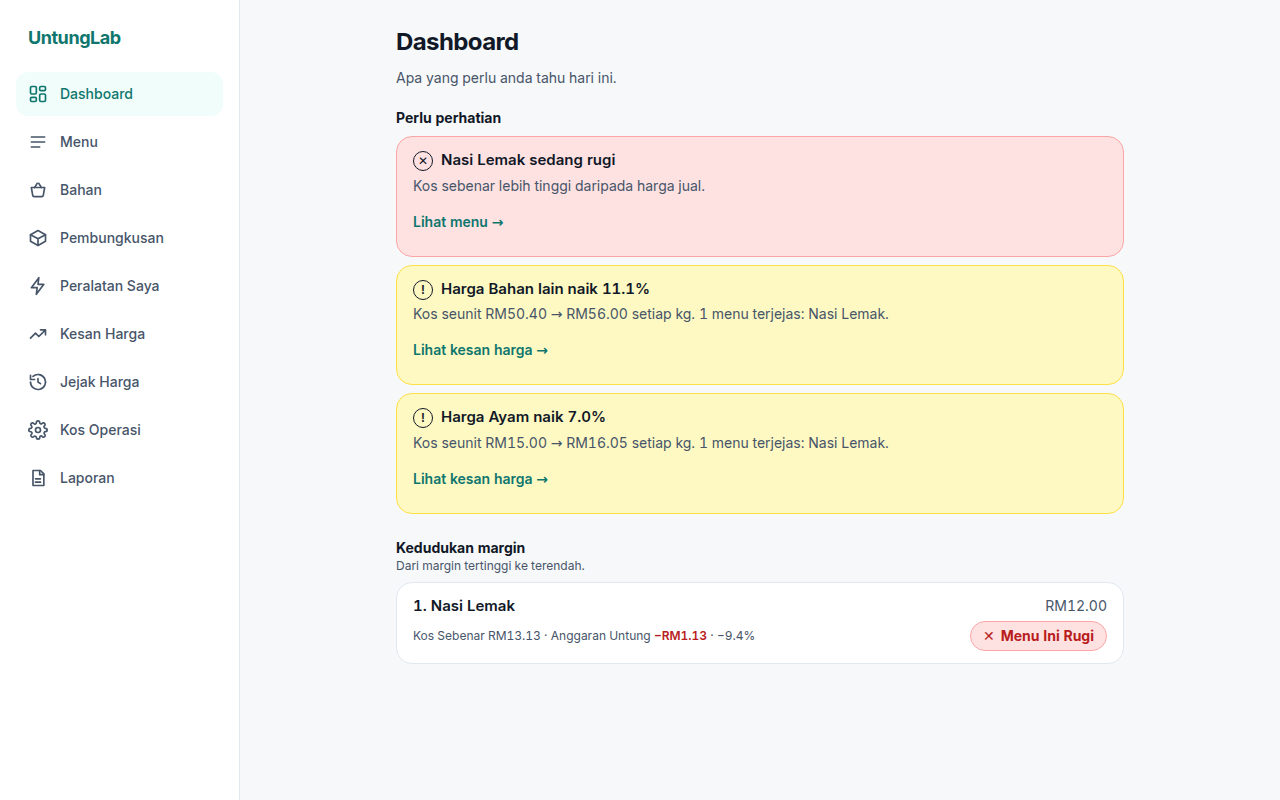
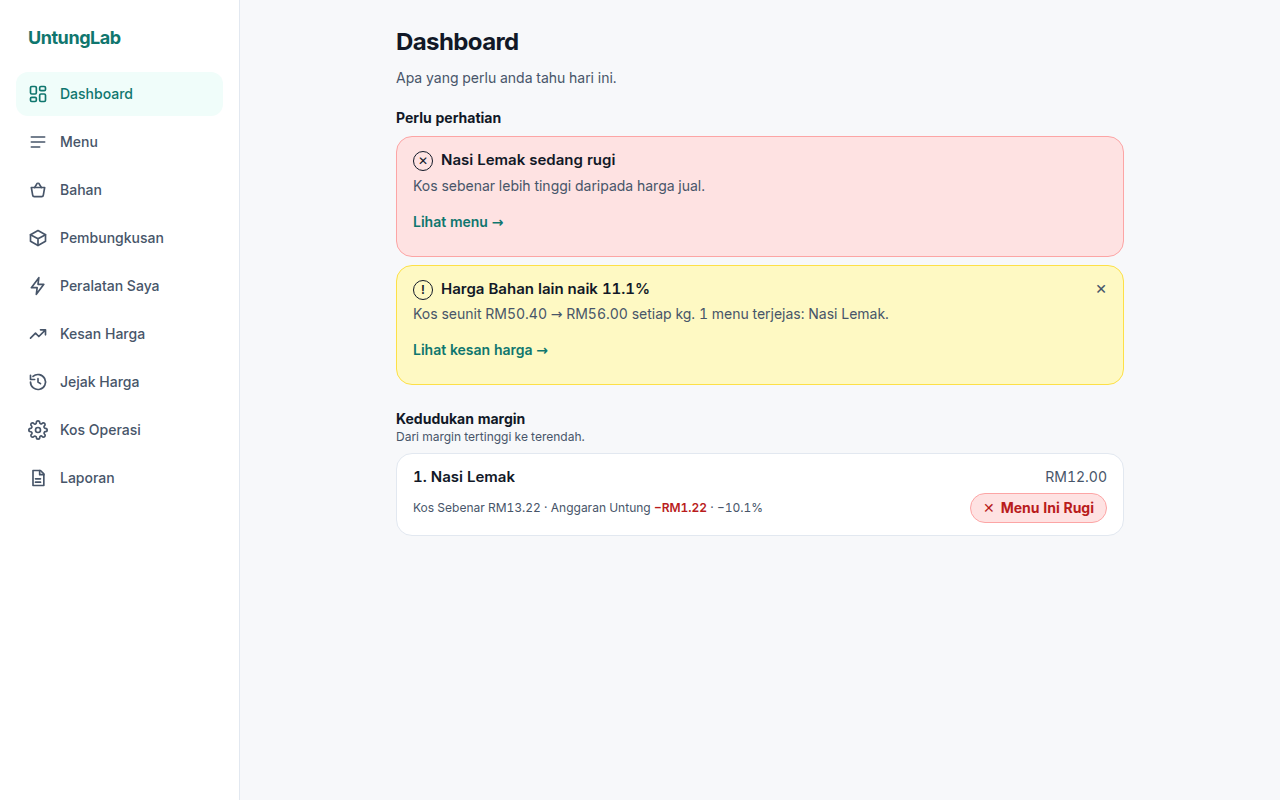
Phase 7 follow-up: 10% alert threshold, closable price alerts, Jejak Harga trend graph
Claude-Session: https://claude.ai/code/session_016wGGxrcJFzmJurSCXDfQKT

Changed region(s): [[0.3125, 0.4688, 0.875, 0.7188], [0.3125, 0.75, 0.5938, 0.8125], [0.75, 0.75, 0.875, 0.8125]]

diff --git a/src/app/components/PriceTrend.tsx b/src/app/components/PriceTrend.tsx
@@ -1,0 +1,91 @@
+import { useState } from 'react';
+import { t } from '../../i18n/ms';
+import { signedPct, signedRM, unitRM } from '../signed';
+import { trendPoints, type TrendInput } from '../trend';
+
+const BOX = { width: 320, height: 170, padX: 22, padY: 36 };
+
+/**
+ * Normalised unit cost over time for one ingredient. One series, so no legend; the title names it.
+ * The history list under it is the table view. Selecting a point (tap, hover or keyboard) shows its exact values.
+ */
+export function PriceTrend({ name, points, unit }: { name: string; points: TrendInput[]; unit: string }) {
+  const [picked, setPicked] = useState<number | null>(null);
+  if (points.length < 2) return null;
+  const pts = trendPoints(points, BOX);
+  const i = picked ?? pts.length - 1;
+  const cur = pts[i]!;
+  const prev = i > 0 ? pts[i - 1]! : null;
+  const lo = Math.min(...points.map((p) => p.amount));
+  const hi = Math.max(...points.map((p) => p.amount));
+  const line = pts.map((p) => `${p.x.toFixed(1)},${p.y.toFixed(1)}`).join(' ');
+  const first = points[0]!.date;
+  const last = points[points.length - 1]!.date;
+
+  const nearest = (clientX: number, el: SVGSVGElement) => {
+    const r = el.getBoundingClientRect();
+    const x = ((clientX - r.left) / r.width) * BOX.width;
+    let best = 0;
+    pts.forEach((p, n) => {
+      if (Math.abs(p.x - x) < Math.abs(pts[best]!.x - x)) best = n;
+    });
+    setPicked(best);
+  };
+
+  return (
+    <div className="mt-2">
+      <p className="text-xs font-semibold">{t('jejak.trendTajuk')}</p>
+      <p className="mt-0.5 min-h-8 text-xs text-muted" aria-live="polite">
+        <span className="font-semibold text-ink">
+          {cur.date} · {unitRM(cur.amount)}/{unit}
+        </span>
+        {prev && (
+          <>
+            {' '}
+            · {signedRM(cur.amount - prev.amount, 3)} ({prev.amount > 0 ? signedPct(((cur.amount - prev.amount) / prev.amount) * 100) : '—'}) {t('jejak.dariSebelum')}
+          </>
+        )}
+      </p>
+      <svg
+        viewBox={`0 0 ${BOX.width} ${BOX.height}`}
+        className="w-full touch-pan-y select-none text-primary"
+        role="img"
+        aria-label={t('jejak.trendLabel').replace('{nama}', name).replace('{a}', first).replace('{b}', last).replace('{n}', String(points.length))}
+        data-testid="trend"
+        onPointerMove={(e) => nearest(e.clientX, e.currentTarget)}
+        onPointerDown={(e) => nearest(e.clientX, e.currentTarget)}
+      >
+        <line x1={BOX.padX} x2={BOX.width - BOX.padX} y1={BOX.padY} y2={BOX.padY} stroke="currentColor" strokeOpacity="0.12" />
+        <line x1={BOX.padX} x2={BOX.width - BOX.padX} y1={BOX.height - BOX.padY} y2={BOX.height - BOX.padY} stroke="currentColor" strokeOpacity="0.12" />
+        <text x={BOX.padX} y={BOX.padY - 8} fontSize="10" className="fill-muted">
+          {unitRM(hi)}
+        </text>
+        <text x={BOX.padX} y={BOX.height - BOX.padY + 16} fontSize="10" className="fill-muted">
+          {unitRM(lo)}
+        </text>
+        <text x={BOX.width - BOX.padX} y={BOX.height - 2} fontSize="10" textAnchor="end" className="fill-muted">
+          {last}
+        </text>
+        <text x={BOX.padX} y={BOX.height - 2} fontSize="10" className="fill-muted">
+          {first}
+        </text>
+        <polyline points={line} fill="none" stroke="currentColor" strokeWidth="2" strokeLinejoin="round" strokeLinecap="round" />
+        {pts.map((p, n) => (
+          <circle
+            key={n}
+            cx={p.x}
+            cy={p.y}
+            r={n === i ? 6 : 4}
+            strokeWidth="2"
+            className={n === i ? 'fill-primary stroke-surface' : 'fill-surface stroke-primary'}
+            tabIndex={0}
+            role="button"
+            aria-label={`${p.date} ${unitRM(p.amount)}/${unit}`}
+            onFocus={() => setPicked(n)}
+          />
+        ))}
+      </svg>
+      <p className="text-xs text-muted">{t('jejak.trendNota')}</p>
+    </div>
+  );
+}

diff --git a/src/app/pages/Dashboard.tsx b/src/app/pages/Dashboard.tsx
@@ -1,10 +1,10 @@
 import { Link } from 'react-router-dom';
 import { formatPct, formatRM } from '../../domain';
-import { listAllHistory, loadCostingData } from '../../db';
+import { dismissInsight, listAllHistory, listDismissedInsightKeys, loadCostingData } from '../../db';
 import { t } from '../../i18n/ms';
 import { StatusBadge, issueText } from '../components/MenuResultView';
 import { EmptyState, Loading, PageHeader, btnPrimary } from '../components/ui';
-import { useLive } from '../data';
+import { useData, useLive } from '../data';
 import { buildDashboard, type InsightItem } from '../insights';
 import { signedPct, unitRM } from '../signed';
 import { SetupChecklist } from './Mula';
@@ -43,9 +43,10 @@ function insightCopy(i: InsightItem): { title: string; detail: string; cta: stri
 
 /** Leads with what needs action, then the margin ranking. Every number comes from the shared costing engine (M04). */
 export function DashboardPage() {
-  const data = useLive(async (c) => ({ costing: await loadCostingData(c), history: await listAllHistory(c) }));
+  const ctx = useData();
+  const data = useLive(async (c) => ({ costing: await loadCostingData(c), history: await listAllHistory(c), dismissed: await listDismissedInsightKeys(c) }));
   if (!data) return <Loading />;
-  const d = buildDashboard(data.costing, data.history);
+  const d = buildDashboard(data.costing, data.history, data.dismissed);
   const nameOf = (ref: string | undefined) => data.costing.ingredients.find((i) => i.id === ref)?.name ?? data.costing.packaging.find((p) => p.id === ref)?.name ?? data.costing.equipment.find((e) => e.id === ref)?.name ?? t('menu.hilang');
 
   if (d.menuCount === 0) {
@@ -83,8 +84,19 @@ export function DashboardPage() {
           {d.insights.map((i, n) => {
             const c = insightCopy(i);
             return (
-              <li key={`${i.type}-${n}`} className={`rounded-2xl border px-4 py-3 ${SEVERITY_STYLE[i.severity]}`}>
-                <p className="flex items-start gap-2 text-[15px] font-semibold">
+              <li key={`${i.type}-${n}`} className={`relative rounded-2xl border px-4 py-3 ${SEVERITY_STYLE[i.severity]}`}>
+                {i.type === 'price_move' && (
+                  <button
+                    type="button"
+                    aria-label={t('dash.tutupAmaran')}
+                    title={t('dash.tutupAmaran')}
+                    onClick={() => void dismissInsight(ctx, i.key)}
+                    className="absolute right-0 top-0 inline-flex size-11 items-center justify-center rounded-full text-lg text-muted hover:text-ink"
+                  >
+                    <span aria-hidden="true">×</span>
+                  </button>
+                )}
+                <p className={`flex items-start gap-2 text-[15px] font-semibold ${i.type === 'price_move' ? 'pr-8' : ''}`}>
                   <span aria-hidden="true" className="mt-0.5 inline-flex size-5 shrink-0 items-center justify-center rounded-full border border-current text-xs">
                     {SEVERITY_ICON[i.severity]}
                   </span>

diff --git a/src/app/insights.ts b/src/app/insights.ts
@@ -6,7 +6,7 @@ import { computeAllMenus } from './menuAssembly';
  * A latest movement of at least this many percent (either direction) becomes a Dashboard insight.
  * Every movement, whatever its size, is still shown on Jejak Harga. Product guidance, not a financial rule (D-43).
  */
-export const PRICE_ALERT_PCT = 5;
+export const PRICE_ALERT_PCT = 10;
 
 export interface MenuRef {
   id: string;
@@ -88,6 +88,8 @@ export type InsightItem =
   | { type: 'loss'; severity: 'critical'; menus: MenuRef[]; to: string }
   | {
       type: 'price_move';
+      /** Identifies this exact price event. Closing the alert stores it; the next price change has a new key. */
+      key: string;
       severity: 'warning' | 'info';
       direction: 'up' | 'down';
       ingredientId: string;
@@ -110,7 +112,7 @@ export interface DashboardModel {
   insights: InsightItem[];
 }
 
-export function buildDashboard(data: CostingData, history: readonly PriceHistoryRecord[]): DashboardModel {
+export function buildDashboard(data: CostingData, history: readonly PriceHistoryRecord[], dismissed: ReadonlySet<string> = new Set()): DashboardModel {
   const costed = computeAllMenus(data);
   const menus = [...costed.values()].filter((c) => c.menu.active);
 
@@ -148,8 +150,11 @@ export function buildDashboard(data: CostingData, history: readonly PriceHistory
     const pct = c?.comparison.percentChange;
     if (!c || pct === null || pct === undefined || Math.abs(pct) < PRICE_ALERT_PCT) continue;
     if (trail.affectedMenus.length === 0) continue;
+    const key = `price:${trail.ingredient.id}:${c.entry.id}`;
+    if (dismissed.has(key)) continue;
     moves.push({
       type: 'price_move',
+      key,
       severity: pct > 0 ? 'warning' : 'info',
       direction: pct > 0 ? 'up' : 'down',
       ingredientId: trail.ingredient.id,

diff --git a/src/app/pages/JejakHarga.tsx b/src/app/pages/JejakHarga.tsx
@@ -3,6 +3,7 @@ import { normalisedUnitCost, perDisplayUnit } from '../../domain';
 import { listAllHistory, loadCostingData } from '../../db';
 import { t } from '../../i18n/ms';
 import { EmptyState, Loading, PageHeader, btnPrimary } from '../components/ui';
+import { PriceTrend } from '../components/PriceTrend';
 import { useLive } from '../data';
 import { buildTrails, type IngredientTrail } from '../insights';
 import { signedPct, signedRM, unitRM } from '../signed';
@@ -64,6 +65,14 @@ function Trail({ trail }: { trail: IngredientTrail }) {
           </Link>
         )}
       </p>
+      <PriceTrend
+        name={ing.name}
+        unit={latestUnit?.unit ?? ''}
+        points={trail.changes.map((c) => ({
+          date: c.entry.purchaseDate,
+          amount: perDisplayUnit(normalisedUnitCost(c.entry.purchasePrice, c.entry.packageQuantity, c.entry.packageUnit, c.entry.packMappings)).amount,
+        }))}
+      />
       <details className="mt-1 border-t border-border pt-2">
         <summary className="flex min-h-11 cursor-pointer items-center text-sm font-medium text-primary">
           {t('jejak.sejarah').replace('{n}', String(trail.changes.length))}

diff --git a/src/app/trend.ts b/src/app/trend.ts
@@ -1,0 +1,33 @@
+export interface TrendInput {
+  date: string;
+  amount: number;
+}
+export interface Box {
+  width: number;
+  height: number;
+  padX: number;
+  padY: number;
+}
+export interface TrendPoint extends TrendInput {
+  x: number;
+  y: number;
+}
+
+const day = (d: string) => Date.parse(`${d}T00:00:00Z`);
+
+/** Screen positions for a price trend. X follows real dates (evenly spread when all dates are equal); Y is inverted. */
+export function trendPoints(points: readonly TrendInput[], box: Box): TrendPoint[] {
+  const w = box.width - box.padX * 2;
+  const h = box.height - box.padY * 2;
+  const times = points.map((p) => day(p.date));
+  const t0 = Math.min(...times);
+  const tSpan = Math.max(...times) - t0;
+  const amounts = points.map((p) => p.amount);
+  const lo = Math.min(...amounts);
+  const span = Math.max(...amounts) - lo;
+  return points.map((p, i) => ({
+    ...p,
+    x: box.padX + (points.length === 1 ? w / 2 : tSpan > 0 ? ((times[i]! - t0) / tSpan) * w : (i / (points.length - 1)) * w),
+    y: box.padY + (span > 0 ? (1 - (p.amount - lo) / span) * h : h / 2),
+  }));
+}

diff --git a/src/db/repo.ts b/src/db/repo.ts
@@ -250,6 +250,19 @@ export async function listAllHistory(ctx: Context): Promise<PriceHistoryRecord[]
   return sortHistory(await ctx.db.priceHistory.toArray());
 }
 
+/** Dashboard price alerts the user has closed. Keyed by the specific price event, so a later change alerts again. */
+export async function dismissInsight(ctx: Context, key: string): Promise<void> {
+  const business = await ensureBusiness(ctx);
+  const at = ctx.now().toISOString();
+  await ctx.db.insights.put({ id: key, businessId: business.id, type: 'price_move', severity: 'info', triggerData: {}, text: '', createdAt: at, readAt: at });
+}
+
+/** Read-only, so it is safe inside a live query. */
+export async function listDismissedInsightKeys(ctx: Context): Promise<Set<string>> {
+  const rows = await ctx.db.insights.toArray();
+  return new Set(rows.filter((r) => r.readAt !== null).map((r) => r.id));
+}
+
 /**
  * Gives every ingredient that has no history one record from its current values. Idempotent: ingredients
  * that already have history are untouched, so running it twice adds nothing.

diff --git a/src/app/__tests__/insights.test.ts b/src/app/__tests__/insights.test.ts
@@ -95,12 +95,12 @@ describe('ingredient movement insights', () => {
   it('states item, normalised movement and affected menus, and links to Kesan Harga', async () => {
     const w = await world();
     w.setNow('2026-09-20T08:00:00');
-    await updateIngredient(w.ctx, w.ayam.id, { purchasePrice: 16.065 }, { purchaseDate: '2026-09-20' }); // +7.1%
+    await updateIngredient(w.ctx, w.ayam.id, { purchasePrice: 16.8 }, { purchaseDate: '2026-09-20' }); // +12%
     const { data, history } = await load(w);
     const move = buildDashboard(data, history).insights.find((i) => i.type === 'price_move');
     if (move?.type !== 'price_move') throw new Error('expected a price movement');
     expect(move).toMatchObject({ name: 'Ayam', direction: 'up', severity: 'warning', displayUnit: 'kg' });
-    expect(move.percent).toBeCloseTo(7.1, 6);
+    expect(move.percent).toBeCloseTo(12, 6);
     expect(move.affected.map((m) => m.name).sort()).toEqual(['Nasi Lemak', 'Sandwic Ayam']);
     expect(move.to).toBe(`/kesan-harga?bahan=${w.ayam.id}`);
   });

diff --git a/src/i18n/ms.ts b/src/i18n/ms.ts
@@ -322,6 +322,7 @@ export const ms = {
     belumLengkap1: '{name} belum lengkap',
     belumLengkapN: '{n} menu belum lengkap',
     belumLengkapButiran: 'Ada maklumat yang belum diisi, jadi kos sebenar belum dikira.',
+    tutupAmaran: 'Tutup amaran ini',
     lihatMenu: 'Lihat menu',
     lihatKesan: 'Lihat kesan harga',
     kedudukanTajuk: 'Kedudukan margin',
@@ -347,6 +348,10 @@ export const ms = {
     menuTerjejas: 'menu guna bahan ini',
     tiadaMenu: 'Tiada menu guna bahan ini',
     lihatKesan: 'Lihat kesan harga',
+    trendTajuk: 'Trend kos seunit',
+    trendNota: 'Sentuh satu titik untuk lihat harga pada tarikh itu.',
+    trendLabel: 'Graf kos seunit {nama} dari {a} hingga {b}, {n} rekod',
+    dariSebelum: 'berbanding rekod sebelum',
     sejarah: 'Sejarah ({n} rekod)',
     kosSetiap: 'setiap',
     hargaPekLabel: 'Harga pek',

diff --git a/DECISIONS.md b/DECISIONS.md
@@ -62,10 +62,12 @@ Authority order when documents conflict: 03, 02, 04, 05, 06, 01, 07 (Doc 00 §2)
 | D-40 | The editor shows a live result from the unsaved form using the same assembler and engine as the saved list. A compact summary stays pinned at the top while lines are edited. | Doc 02 §10 result view; one engine for all screens. |
 | D-41 | Unit choices for a Bahan line come from the ingredient: g/kg, ml/l, or the pack unit plus its mapped units. Any typed unit is still accepted; an unsuitable one is named as an incompatible unit, not converted. | Doc 03 §1. |
 | D-42 | The Dashboard leads with "Perlu perhatian" (insights), then the margin ranking (best first), then incomplete menus. With no menus it shows the setup checklist plus a prompt to create the first menu. Insights are worked out live from the engine and price history each time; they are not stored. | Doc 02 §13 "lead with actionable conditions". A stored insight text would go stale the moment a price or cost changes, which breaks "live source always wins". The `insights` table stays for later AI wording. |
-| D-43 | A price movement becomes an insight when the **latest** change of an ingredient is **5% or more** on normalised unit cost (up or down) and at least one menu uses it. Smaller moves, and ingredients no menu uses, still appear on Jejak Harga. The 5% is one constant (`PRICE_ALERT_PCT`). | Doc 05 §7 says "significant" without a number. Product guidance, not a financial rule. **Open:** an alert stays until that ingredient's next price change (no expiry). |
+| D-43 | A price movement becomes an insight when the **latest** change of an ingredient is **10% or more** (owner's choice, was 5%) on normalised unit cost (up or down) and at least one menu uses it. Smaller moves, and ingredients no menu uses, still appear on Jejak Harga. The 10% is one constant (`PRICE_ALERT_PCT`). | Doc 05 §7 says "significant" without a number. Product guidance, not a financial rule. |
 | D-44 | Insight kinds in V1: menu(s) in loss (critical), price up (warning), price down (info), menus incomplete (info). Ranking lists complete menus only; incomplete ones are listed separately and never ranked with a guessed number. | Doc 04 §8 alerts; Doc 03 "never guess". |
 | D-45 | Jejak Harga: one card per active ingredient, most recently changed first. It shows latest pack price, latest unit cost (per kg / litre / counted unit), latest change in RM per unit and %, the menus that use it, and an expandable history (newest first, each record compared with the one before). Archived ingredients are hidden. | Doc 02 §11. |
 | D-46 | Insight and Jejak Harga links to Kesan Harga use `/kesan-harga?bahan=<ingredientId>`. The screen is built in Phase 8 and will read that parameter. Until then it shows the "Sedang dibina" page. | Doc 04 §8 deep links. |
+| D-47 | A price alert never expires by itself. The user can close it with a small × button; the closure is saved on the device (in the `insights` table, keyed to that exact price record). The next price change of that ingredient is a new event and alerts again. Loss and incomplete-menu alerts cannot be closed because they describe a state that is still true. Closed alerts still show on Jejak Harga. | Owner decision: "jangan hilang, bagi option ignore". |
+| D-48 | Each Jejak Harga card with two or more records shows a line graph of normalised unit cost (per kg / litre / unit) by purchase date, with the exact value and change shown when a point is tapped or focused. The history list under it is the table view. | Owner request. One series, so no legend; teal brand colour; not colour alone (values readable as text). |
 
 ## Spec notes for your attention
 

diff --git a/docs/qa/phase-7-evidence.md b/docs/qa/phase-7-evidence.md
@@ -2,9 +2,9 @@
 
 ## Result
 
-- 305 automated tests, 23 files, 0 failures. Typecheck clean. Production build with service worker succeeds.
+- 312 automated tests, 24 files, 0 failures. Typecheck clean. Production build with service worker succeeds.
 - Tests for the dashboard model, insights, Jejak Harga trails and the history reader were committed before their code (commit "Phase 7 tests first (red)").
-- Mutation check: **51 of 51 caught** (7 new: ranking order, drops never alerting, alert for unused ingredient, affected-menu count, Jejak Harga order, several loss menus linking to one menu, sign dropped from a movement).
+- Mutation check: **54 of 54 caught** (10 new: closed alert ignored, alert key not tied to the price event, trend upside down, plus ranking order, drops never alerting, alert for unused ingredient, affected-menu count, Jejak Harga order, several loss menus linking to one menu, sign dropped from a movement).
 - The Dashboard reads `computeAllMenus`, the same function as the Menu screens. It has no formula of its own.
 
 ## Doc 06 / Doc 02 traceability
@@ -24,3 +24,7 @@
 Browser checks ran with `scripts/e2e-phase7.mjs` at 390px then 1280px, including reload and offline. Screenshots are in `docs/qa/phase-7/`.
 
 Not covered: real iPhone Safari (Phase 11), screen-reader pass, many-menu performance.
+
+## Follow-up after review
+
+Alert threshold set to 10%, price alerts can be closed (and stay closed after reload; a new price change alerts again), and Jejak Harga cards have a trend graph (p7-04a-graf.png). Browser check now 18/18.
